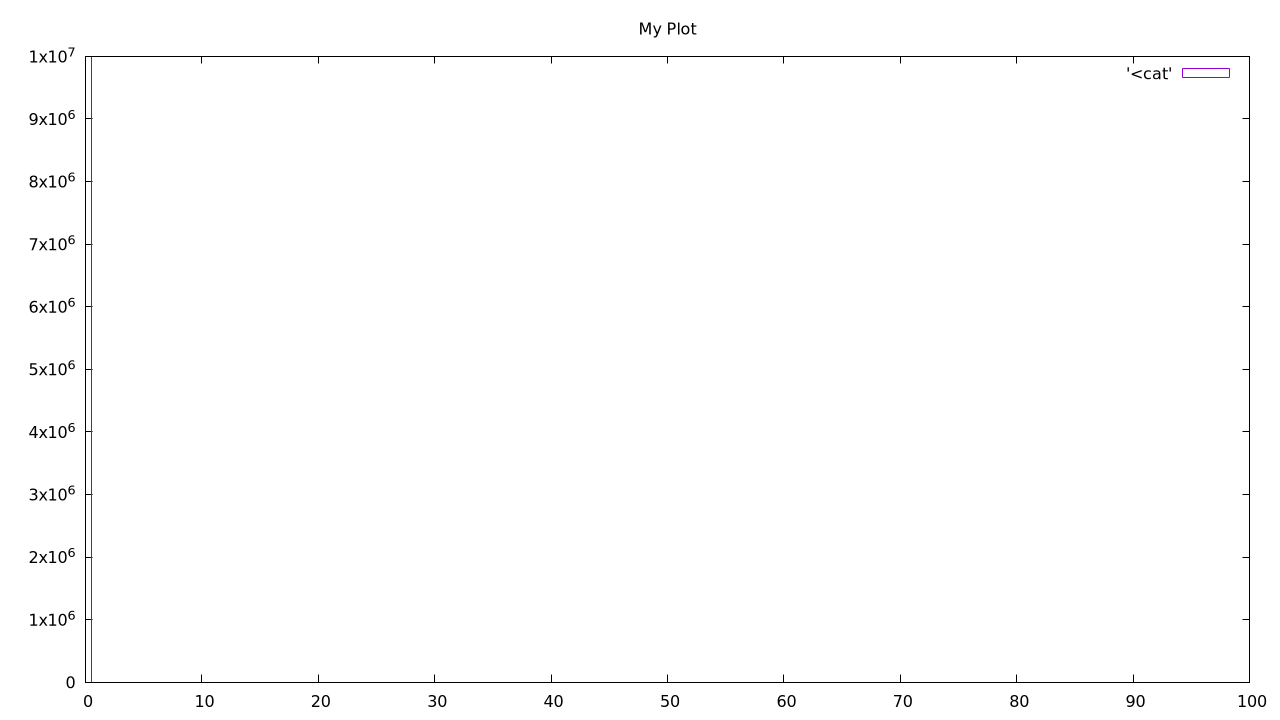
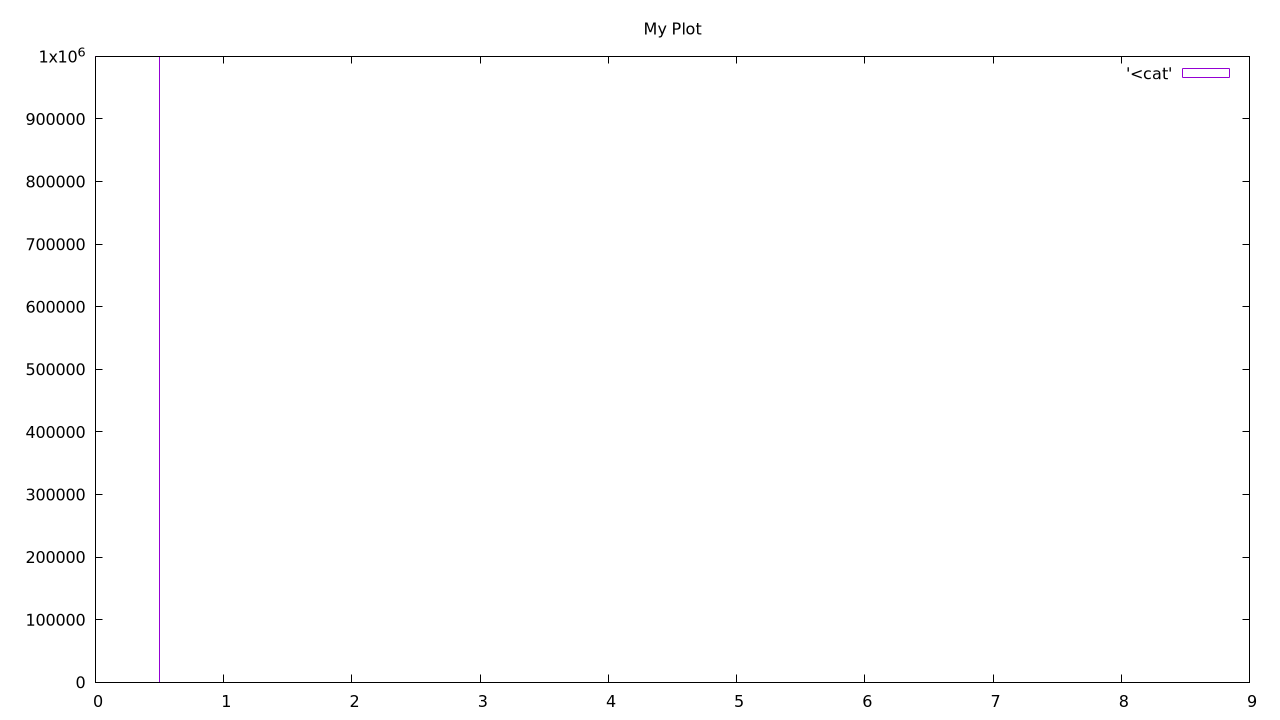
skdufgoa

diff --git a/ex1.0/times.c b/ex1.0/times.c
@@ -1,36 +1,29 @@
-#include <string.h>
-#include <stdint.h>
 #include <stdio.h>
-#include <inttypes.h>
-#include <time.h>
+#include <string.h>
 #include <sys/times.h>
 #include <unistd.h>
 
+int main(void) {
+    int histogram[10];
+    memset(histogram, 0, sizeof(histogram));
 
-int main(){
+    struct tms buffer;
+    long ticks_per_second = sysconf(_SC_CLK_TCK);
 
-        int ns_max = 100;
-        int histogram[ns_max];
-        memset(histogram, 0, sizeof(int)*ns_max);
+    for (int i = 0; i < 1000000; i++) {
+        clock_t t1 = times(&buffer);
+        clock_t t2 = times(&buffer);
 
-	struct tms buffer;
-	long tixps = sysconf(_SC_CLK_TCK);
+        clock_t diff = t2 - t1;
 
-	for(int i = 0; i < 10*1000*1000; i++){
-                clock_t t1 = times(&buffer);
-		clock_t t2 = times(&buffer);
-
-                long ns = (t2-t1) * 1000000000L/tixps;
-
-                if(ns >= 0 && ns < ns_max){
-                        histogram[ns]++;
-                }
+        if (diff >= 0 && diff < 10) {
+            histogram[diff]++;
         }
+    }
 
-        for(int i = 0; i < ns_max; i++){
-                printf("%d\n", histogram[i]);
-        }
-        return 0;
+    for (int i = 0; i < 10; i++) {
+        printf("%d\n", histogram[i]);
+    }
+
+    return 0;
 }
-
-
